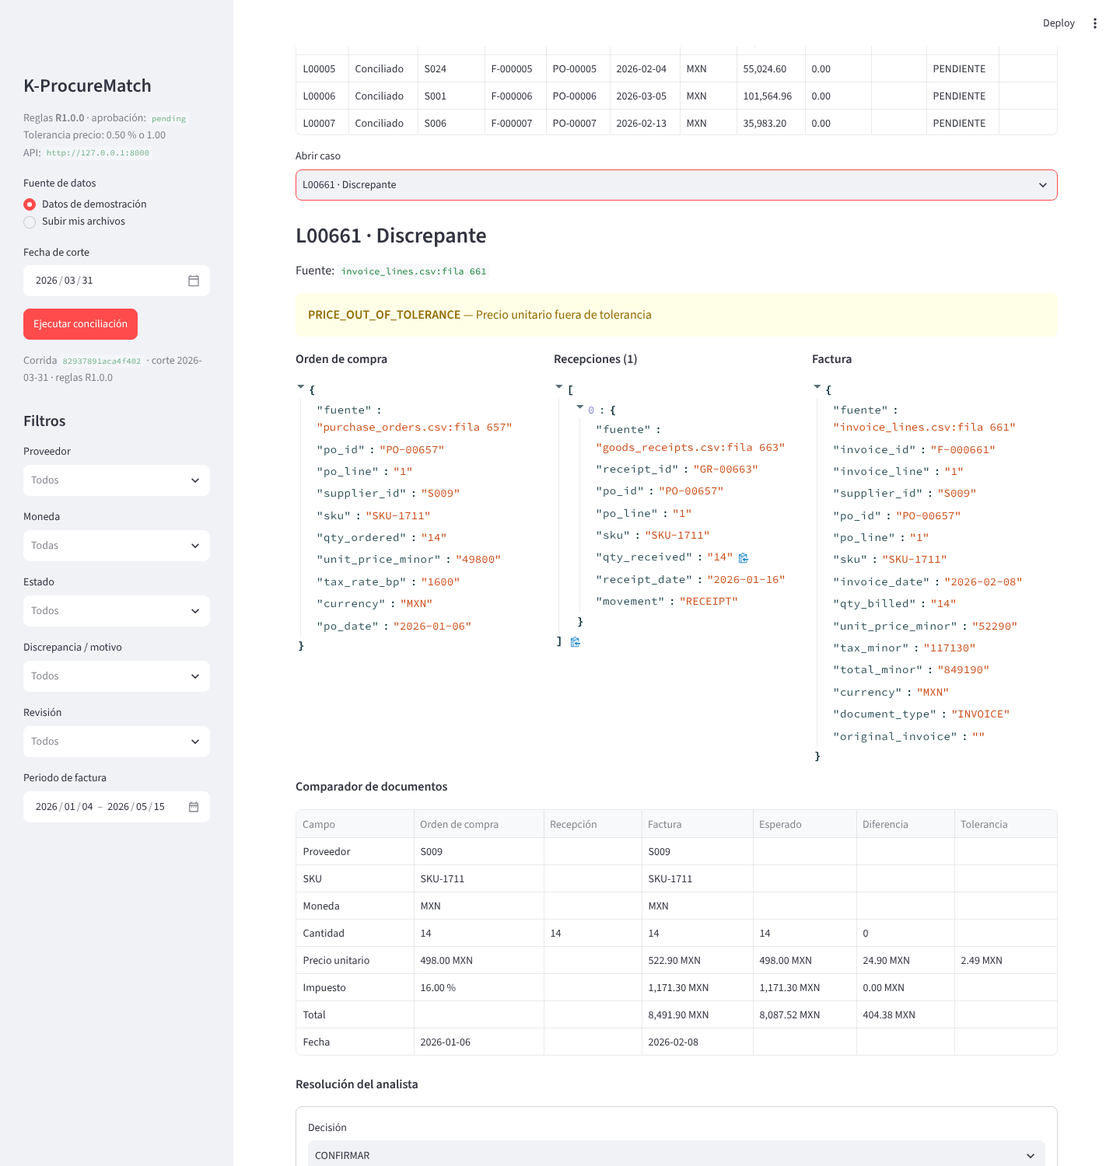
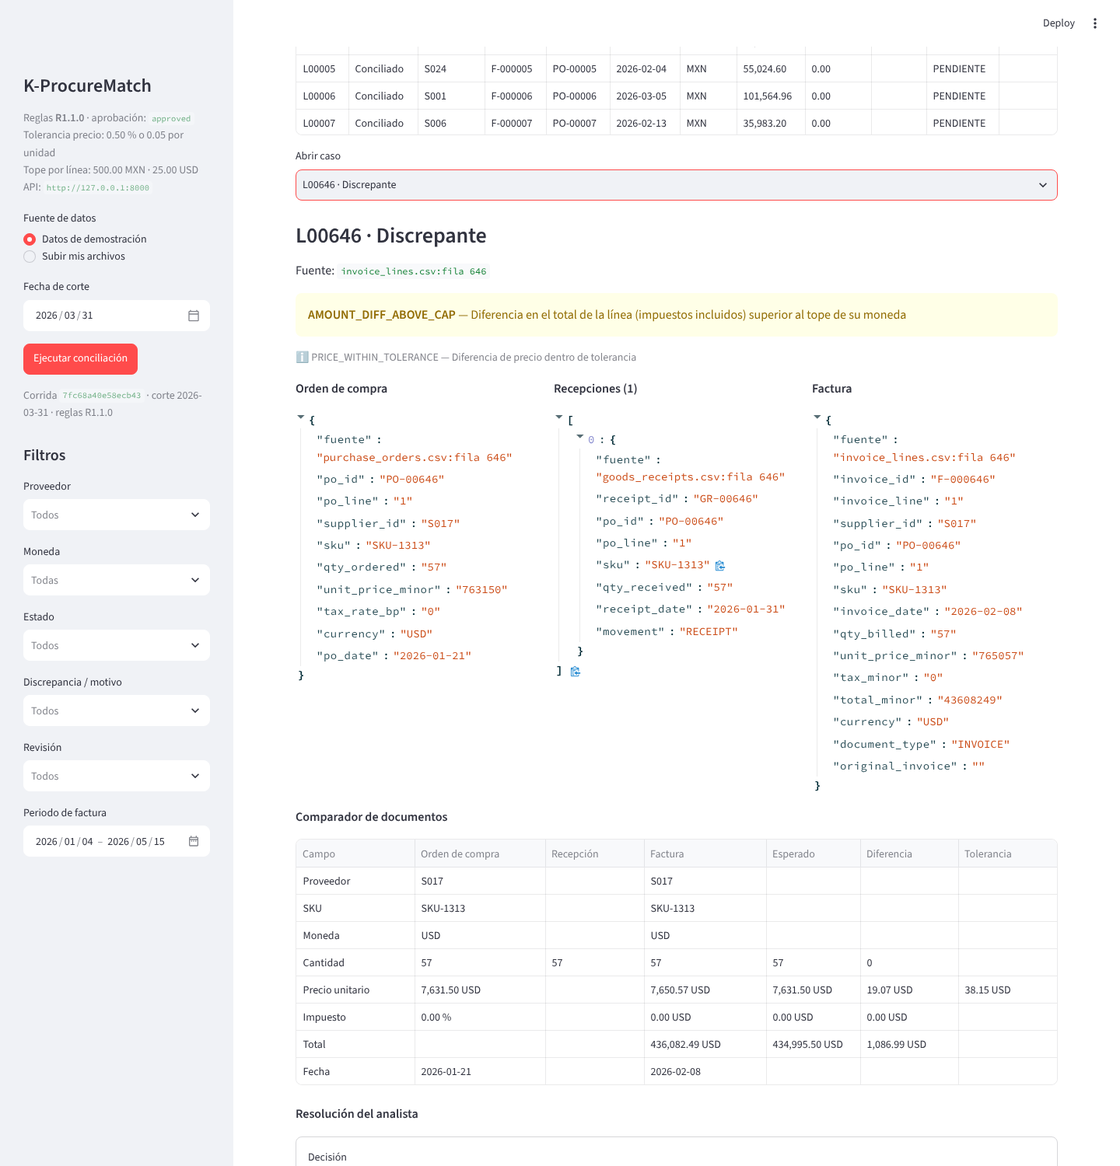
feat: reglas R1.1.0 aprobadas — mínimo de tolerancia 0.05 por unidad y tope de diferencia por línea
- rules_v1.yaml R1.1.0: tolerancia de precio 0.5 % o 0.05 por unidad (antes 1.00); tope de diferencia
  por línea de 500 MXN / 25 USD, impuestos incluidos; aprobación registrada (2026-10-31).
- Motor SQL: regla AMOUNT_DIFF_ABOVE_CAP (EXCEPTION), solo para líneas que de otro modo se conciliarían;
  igual al tope sigue conciliada y una moneda sin tope listado no tiene tope.
- API /rules, dashboard y expediente muestran el tope y quién aprobó las reglas y cuándo.
- Conjunto de demostración: la fila 646 (precio dentro de tolerancia, 1,086.99 USD de diferencia) pasa a
  EXCEPTION por el tope; las fuentes no cambian.
- Pruebas de frontera: mínimo de 0.05, tope en el límite y un centavo arriba, tope con IVA incluido.
- Indicadores: exactitud 100 %, 0 falsas coincidencias, esfuerzo de revisión 12.0 %. Motor 1.2.0.

diff --git a/tests/test_acceptance.py b/tests/test_acceptance.py
@@ -42,20 +42,59 @@ def test_T_I19_01_partial_receipts_and_billing_still_match(make_case):
 
 # ---------------------------------------------------------------- T-I19-02 · AC-I19-02 (diferencia monetaria)
 def test_T_I19_02_price_out_of_tolerance_is_EXCEPTION_with_auditable_amounts(make_case):
-    res = make_case(invs=[invoice(unit_price_minor=10500)])   # +5 %; tolerancia max(100, 0.5 %·10000=50) = 100
+    res = make_case(invs=[invoice(unit_price_minor=10500)])   # +5 %; tolerancia max(5, 0.5 %·10000=50) = 50
     c = case(res)
     assert c["status"] == "EXCEPTION" and c["reasons"] == "PRICE_OUT_OF_TOLERANCE"
-    assert c["price_diff_minor"] == 500 and c["price_tolerance_minor"] == 100
+    assert c["price_diff_minor"] == 500 and c["price_tolerance_minor"] == 50
     assert c["amount_expected_minor"] == 116000 and c["total_minor"] == 121800 and c["amount_diff_minor"] == 5800
-    assert res.manifest()["rules"]["version"] == "R1.0.0"
+    rules = res.manifest()["rules"]
+    assert rules["version"] == "R1.1.0" and rules["approval_status"] == "approved" and rules["approved_on"]
 
 
-@pytest.mark.parametrize("delta,status", [(100, "MATCH"), (101, "EXCEPTION"), (-100, "MATCH"), (-101, "EXCEPTION")])
+@pytest.mark.parametrize("delta,status", [(50, "MATCH"), (51, "EXCEPTION"), (-50, "MATCH"), (-51, "EXCEPTION")])
 def test_T_I19_02_tolerance_boundary(make_case, delta, status):
-    c = case(make_case(invs=[invoice(unit_price_minor=10000 + delta)]))
+    c = case(make_case(invs=[invoice(unit_price_minor=10000 + delta)]))   # 0.5 % de 100.00 = 0.50 por unidad
     assert c["status"] == status
     if status == "MATCH":
         assert c["notes"] == "PRICE_WITHIN_TOLERANCE"
+
+
+@pytest.mark.parametrize("delta,status", [(5, "MATCH"), (6, "EXCEPTION"), (-5, "MATCH"), (-6, "EXCEPTION")])
+def test_T_I19_02_minimum_tolerance_boundary_on_cheap_items(make_case, delta, status):
+    # Precio 5.00: el 0.5 % daría 0.02; rige el mínimo de 0.05 por unidad (antes 1.00 = 20 % del precio)
+    c = case(make_case(pos=[{**PO, "unit_price_minor": "500"}], invs=[invoice(unit_price_minor=500 + delta)]))
+    assert c["price_tolerance_minor"] == 5 and c["status"] == status
+
+
+USD_PO = {**PO, "currency": "USD", "tax_rate_bp": "0", "qty_ordered": "1", "unit_price_minor": "1000000"}
+ONE_RECEIPT = {**GR, "qty_received": "1"}
+
+
+def usd_invoice(unit: int) -> dict:
+    return invoice(qty_billed=1, unit_price_minor=unit, tax_minor=0, total_minor=unit, currency="USD")
+
+
+@pytest.mark.parametrize("delta,status", [(2500, "MATCH"), (2501, "EXCEPTION"), (-2500, "MATCH"), (-2501, "EXCEPTION")])
+def test_T_I19_02_line_cap_boundary(make_case, delta, status):
+    # Precio dentro de tolerancia (0.5 % de 10,000.00 = 50.00) pero la línea no puede aceptar más de 25.00 USD
+    c = case(make_case(pos=[USD_PO], grs=[ONE_RECEIPT], invs=[usd_invoice(1_000_000 + delta)]))
+    assert c["status"] == status and c["amount_diff_minor"] == delta
+    assert c["reasons"] == ("" if status == "MATCH" else "AMOUNT_DIFF_ABOVE_CAP")
+    assert c["notes"] == "PRICE_WITHIN_TOLERANCE"
+
+
+@pytest.mark.parametrize("delta,diff,status", [(43_103, 49_999, "MATCH"), (43_104, 50_001, "EXCEPTION")])
+def test_T_I19_02_line_cap_includes_tax(make_case, delta, diff, status):
+    # Subtotal +431.04 MXN, bajo el tope; con IVA la diferencia del total es 500.01 y lo supera
+    po = {**PO, "qty_ordered": "1", "unit_price_minor": "10000000"}
+    c = case(make_case(pos=[po], grs=[ONE_RECEIPT], invs=[invoice(qty_billed=1, unit_price_minor=10_000_000 + delta)]))
+    assert c["amount_diff_minor"] == diff and c["status"] == status
+
+
+def test_T_I19_02_line_cap_only_on_lines_that_would_match(make_case):
+    # Precio fuera de tolerancia con diferencia muy superior al tope: un solo motivo, el de precio
+    c = case(make_case(pos=[USD_PO], grs=[ONE_RECEIPT], invs=[usd_invoice(1_200_000)]))
+    assert c["status"] == "EXCEPTION" and c["reasons"] == "PRICE_OUT_OF_TOLERANCE"
 
 
 @pytest.mark.parametrize("kw,grs,reason", [
@@ -212,7 +251,7 @@ def test_T_I19_05_export_carries_decision_reasons_version_and_refs(sample_dir, s
     assert hit["decision"] == "REMITIR" and hit["analyst"] == "ana.cxp" and hit["review_state"] == "RESUELTO"
     assert rows["reasons"].notna().all() and rows["invoice_ref"].str.contains("fila").all()
     assert rows["po_ref"].notna().all() and rows["receipt_refs"].notna().all()
-    assert man["rules"]["version"] == "R1.0.0" and len(man["rules"]["sha256"]) == 64
+    assert man["rules"]["version"] == "R1.1.0" and len(man["rules"]["sha256"]) == 64
     import hashlib
     for f, meta in man["sources"].items():
         assert meta["sha256"] == hashlib.sha256((sample_dir / f).read_bytes()).hexdigest()

diff --git a/src/procurematch/engine.py b/src/procurematch/engine.py
@@ -35,6 +35,7 @@ REASONS: dict[str, Status] = {
     "INVOICE_BEFORE_PO": Status.EXCEPTION, "PRICE_OUT_OF_TOLERANCE": Status.EXCEPTION,
     "QTY_EXCEEDS_RECEIVED": Status.EXCEPTION, "QTY_EXCEEDS_ORDERED": Status.EXCEPTION,
     "TAX_MISMATCH": Status.EXCEPTION, "TOTAL_ARITHMETIC_MISMATCH": Status.EXCEPTION,
+    "AMOUNT_DIFF_ABOVE_CAP": Status.EXCEPTION,
 }
 NOTES = {"PRICE_WITHIN_TOLERANCE", "PARTIAL_RECEIPTS", "RETURN_APPLIED", "PARTIAL_BILLING"}
 PRECEDENCE = [Status.BLOCKED, Status.REVIEW, Status.UNMATCHED, Status.EXCEPTION, Status.MATCH]
@@ -62,6 +63,7 @@ REASON_TEXT = {
     "QTY_EXCEEDS_ORDERED": "Cantidad facturada supera lo ordenado pendiente",
     "TAX_MISMATCH": "Impuesto distinto al calculado con la tasa de la orden",
     "TOTAL_ARITHMETIC_MISMATCH": "Total distinto de subtotal + impuesto",
+    "AMOUNT_DIFF_ABOVE_CAP": "Diferencia en el total de la línea (impuestos incluidos) superior al tope de su moneda",
     "PRICE_WITHIN_TOLERANCE": "Diferencia de precio dentro de tolerancia",
     "PARTIAL_RECEIPTS": "Cantidad cubierta por varias recepciones",
     "RETURN_APPLIED": "Se descontaron devoluciones de la recepción",
@@ -116,7 +118,8 @@ class RunResult:
     def manifest(self) -> dict:
         return {"run_id": self.run_id, "as_of": self.as_of.isoformat(), "engine_version": __version__,
                 "rules": {"version": self.rules.version, "sha256": self.rules.sha256, "file": self.rules.path,
-                          "approval_status": self.rules.approval_status, "approved_by": self.rules.approved_by},
+                          "approval_status": self.rules.approval_status, "approved_by": self.rules.approved_by,
+                          "approved_on": self.rules.approved_on},
                 "sources": self.ingested.sources(),
                 "authority": {"payments_executed": False, "erp_postings": False, "purchase_orders_created": False}}
 
@@ -153,6 +156,7 @@ TABLE_DDL = {
     "issues": {"file": "VARCHAR", "row_no": "BIGINT", "field": "VARCHAR", "code": "VARCHAR", "value": "VARCHAR"},
     "suppliers": {"supplier_id": "VARCHAR"},
     "admitted": {"code": "VARCHAR"},
+    "line_cap": {"currency": "VARCHAR", "cap_minor": "BIGINT"},
     "reason_map": {"code": "VARCHAR", "status": "VARCHAR", "rank": "INTEGER"},
     "status_labels": {"status": "VARCHAR", "label": "VARCHAR"},
 }
@@ -176,6 +180,7 @@ def _frames(ing: Ingested, rules: RuleSet) -> dict[str, pd.DataFrame]:
         "issues": ing.issues,
         "suppliers": models("suppliers") if "suppliers" in t else pd.DataFrame(),
         "admitted": pd.DataFrame({"code": list(rules.currencies)}),
+        "line_cap": pd.DataFrame(list(rules.line_amount_cap_minor), columns=["currency", "cap_minor"]),
         "reason_map": pd.DataFrame([{"code": c, "status": s.value, "rank": rank[s]} for c, s in REASONS.items()]),
         "status_labels": pd.DataFrame([{"status": s.value, "label": lbl} for s, lbl in STATUS_LABEL.items()]),
     }

diff --git a/tests/test_api_and_metrics.py b/tests/test_api_and_metrics.py
@@ -60,7 +60,7 @@ def test_rules_version_and_hash_change_the_run_id(tmp_path, sample_dir):
     from procurematch.engine import run
     rules = (load_rules().path, (__import__("conftest").ROOT / "rules" / "rules_v1.yaml").read_text(encoding="utf-8"))
     alt = tmp_path / "rules_alt.yaml"
-    alt.write_text(rules[1].replace("unit_price_abs_minor: 100", "unit_price_abs_minor: 200"), encoding="utf-8")
+    alt.write_text(rules[1].replace("unit_price_abs_minor: 5 ", "unit_price_abs_minor: 200 "), encoding="utf-8")
     a = run(sample_dir, as_of=__import__("datetime").date(2026, 3, 31))
     b = run(sample_dir, as_of=__import__("datetime").date(2026, 3, 31), rules_path=alt)
     assert a.run_id != b.run_id and a.rules.sha256 != b.rules.sha256
@@ -68,6 +68,31 @@ def test_rules_version_and_hash_change_the_run_id(tmp_path, sample_dir):
     bad.write_text(rules[1].replace("qty_units: 0", "qty_units: -1"), encoding="utf-8")
     with pytest.raises(ValueError):
         load_rules(bad)
+
+
+def test_line_cap_is_optional_validated_and_exposed(tmp_path, sample_dir, sample_run, client):
+    from datetime import date
+
+    from procurematch.engine import run
+    text = (__import__("conftest").ROOT / "rules" / "rules_v1.yaml").read_text(encoding="utf-8")
+    no_cap = tmp_path / "rules_sin_tope.yaml"
+    no_cap.write_text("".join(ln for ln in text.splitlines(keepends=True)
+                              if not ln.startswith("  line_amount_cap_minor:")), encoding="utf-8")
+    r = load_rules(no_cap)
+    assert r.line_amount_cap_minor == () and r.line_cap("USD") is None
+    # sin tope, el mínimo de 0.05 deja el conjunto oficial como con R1.0.0; el tope solo detiene la fila 646
+    free = run(sample_dir, as_of=date(2026, 3, 31), rules_path=no_cap).cases.set_index("row_no")["status"]
+    capped = sample_run.cases.set_index("row_no")["status"]
+    assert (free == "MATCH").sum() == 660 and list(free.index[free != capped]) == [646]
+    assert sample_run.cases.set_index("row_no").loc[646, "reasons"] == "AMOUNT_DIFF_ABOVE_CAP"
+    for bad_cap in ("{MXN: 50000, EUR: 2500}", "{MXN: -1, USD: 2500}", "{MXN: 50000, USD: 25.5}"):
+        bad = tmp_path / "rules_tope_malo.yaml"
+        bad.write_text(text.replace("{MXN: 50000, USD: 2500}", bad_cap), encoding="utf-8")
+        with pytest.raises(ValueError):
+            load_rules(bad)
+    api = client.get("/rules").json()
+    assert api["tolerancias"]["tope_linea_minor"] == {"MXN": 50000, "USD": 2500}
+    assert api["aprobacion"] == {"estado": "approved", "aprobado_por": "jesusrlgonzalez", "aprobado_el": "2026-10-31"}
 
 
 def test_metrics_vs_labels_and_baseline(sample_run, sample_dir):

diff --git a/src/procurematch/rules.py b/src/procurematch/rules.py
@@ -24,9 +24,18 @@ class RuleSet:
     approval_status: str
     approved_by: str | None
     path: str
+    line_amount_cap_minor: tuple[tuple[str, int], ...] = ()   # (moneda, tope); vacío = sin tope
+    approved_on: str | None = None
 
     def price_tolerance(self, po_unit_minor: int) -> int:
         return max(self.unit_price_abs_minor, po_unit_minor * self.unit_price_bp // 10_000)
+
+    def line_cap(self, currency: str) -> int | None:
+        return dict(self.line_amount_cap_minor).get(currency)
+
+
+def _non_negative_int(v) -> bool:
+    return isinstance(v, int) and not isinstance(v, bool) and v >= 0
 
 
 def load_rules(path: str | Path = DEFAULT_RULES) -> RuleSet:
@@ -35,8 +44,11 @@ def load_rules(path: str | Path = DEFAULT_RULES) -> RuleSet:
     cfg = yaml.safe_load(raw)
     tol, dates, appr = cfg["tolerances"], cfg["dates"], cfg.get("approval") or {}
     for k in ("qty_units", "unit_price_bp", "unit_price_abs_minor", "tax_abs_minor", "total_abs_minor"):
-        if not isinstance(tol[k], int) or tol[k] < 0:
+        if not _non_negative_int(tol[k]):
             raise ValueError(f"tolerancia inválida: {k}")
+    caps = tol.get("line_amount_cap_minor") or {}
+    if not isinstance(caps, dict) or any(c not in cfg["currencies"] or not _non_negative_int(v) for c, v in caps.items()):
+        raise ValueError("tope por línea inválido: solo monedas admitidas y enteros no negativos")
     return RuleSet(
         version=str(cfg["version"]), sha256=hashlib.sha256(raw).hexdigest(),
         currencies=tuple(cfg["currencies"]),
@@ -44,5 +56,6 @@ def load_rules(path: str | Path = DEFAULT_RULES) -> RuleSet:
         unit_price_abs_minor=tol["unit_price_abs_minor"], tax_abs_minor=tol["tax_abs_minor"],
         total_abs_minor=tol["total_abs_minor"], future_days_allowed=int(dates["future_days_allowed"]),
         approval_status=str(appr.get("status", "pending")), approved_by=appr.get("approved_by"),
-        path=p.name,
+        path=p.name, line_amount_cap_minor=tuple(sorted(caps.items())),
+        approved_on=None if appr.get("approved_on") is None else str(appr["approved_on"]),
     )

diff --git a/src/procurematch/fixture.py b/src/procurematch/fixture.py
@@ -149,6 +149,9 @@ def build(out: str | Path, *, seed: int = 1905, clean_mxn: int = 520, clean_usd:
             unit = p["unit_price_minor"]
             if scenario == "PRICE_WITHIN_TOLERANCE":
                 reprice(i, unit + rules_tolerance(unit) // 2)
+                over = int(i["total_minor"]) - (q * unit + _tax(q * unit, p["tax_rate_bp"]))
+                if over > LINE_CAP_MINOR[p["currency"]]:   # precio dentro de tolerancia, total sobre el tope
+                    truth[-1].update(scenario="PRICE_WITHIN_TOLERANCE_ABOVE_CAP", expected_status="EXCEPTION")
             elif scenario == "PRICE_OUT_OF_TOLERANCE":
                 bump = max(unit * 5 // 100, 500)
                 reprice(i, unit + bump)
@@ -201,8 +204,11 @@ def build(out: str | Path, *, seed: int = 1905, clean_mxn: int = 520, clean_usd:
 
 
 def rules_tolerance(unit: int) -> int:
-    """Tolerancia de precio de las reglas R1 (0.5 % o 100), replicada para fabricar casos límite."""
-    return max(100, unit * 50 // 10_000)
+    """Tolerancia de precio de las reglas R1.1.0 (0.5 % o 5), replicada para fabricar casos límite."""
+    return max(5, unit * 50 // 10_000)
+
+
+LINE_CAP_MINOR = {"MXN": 50_000, "USD": 2_500}   # tope por línea de R1.1.0, replicado solo para etiquetar
 
 
 if __name__ == "__main__":

diff --git a/src/procurematch/service.py b/src/procurematch/service.py
@@ -112,11 +112,13 @@ class Service:
     def rules(self) -> dict:
         r = load_rules(self.rules_path)
         return {"version": r.version, "sha256": r.sha256, "archivo": r.path,
-                "aprobacion": {"estado": r.approval_status, "aprobado_por": r.approved_by},
+                "aprobacion": {"estado": r.approval_status, "aprobado_por": r.approved_by,
+                               "aprobado_el": r.approved_on},
                 "monedas": list(r.currencies),
                 "tolerancias": {"cantidad_unidades": r.qty_units, "precio_bp": r.unit_price_bp,
                                 "precio_abs_minor": r.unit_price_abs_minor, "impuesto_abs_minor": r.tax_abs_minor,
-                                "total_abs_minor": r.total_abs_minor},
+                                "total_abs_minor": r.total_abs_minor,
+                                "tope_linea_minor": dict(r.line_amount_cap_minor)},
                 "dias_futuros_permitidos": r.future_days_allowed}
 
     # ------------------------------------------------------------ consultas

diff --git a/dashboard/app.py b/dashboard/app.py
@@ -79,8 +79,10 @@ except ApiError as e:
 # ---------------------------------------------------------------- fuente y corrida
 st.sidebar.title("K-ProcureMatch")
 tol = rules["tolerancias"]
+cap_txt = " · ".join(f"{v / 100:,.2f} {k}" for k, v in (tol.get("tope_linea_minor") or {}).items()) or "sin tope"
 st.sidebar.caption(f"Reglas **{rules['version']}** · aprobación: `{rules['aprobacion']['estado']}`  \n"
-                   f"Tolerancia precio: {tol['precio_bp'] / 100:.2f} % o {tol['precio_abs_minor'] / 100:.2f}  \n"
+                   f"Tolerancia precio: {tol['precio_bp'] / 100:.2f} % o {tol['precio_abs_minor'] / 100:.2f} por unidad  \n"
+                   f"Tope por línea: {cap_txt}  \n"
                    f"API: `{API_URL}`")
 mode = st.sidebar.radio("Fuente de datos", ["Datos de demostración", "Subir mis archivos"], key="mode")
 

diff --git a/src/procurematch/export.py b/src/procurematch/export.py
@@ -88,7 +88,7 @@ code{{font-size:10px}}@media print{{body{{margin:0}}}}</style></head><body>
 <h1>Expediente de conciliación 3-way</h1>
 <p><b>Corrida:</b> {e(manifest['run_id'])} · <b>Fecha de corte:</b> {e(manifest['as_of'])} ·
 <b>Motor:</b> {e(manifest['engine_version'])} · <b>Reglas:</b> {e(rules['version'])} (<code>{rules['sha256']}</code>,
-aprobación: {e(str(rules['approval_status']))})</p>
+aprobación: {e(' · '.join(str(rules[k]) for k in ('approval_status', 'approved_by', 'approved_on') if rules.get(k)))})</p>
 <p><b>Filtros aplicados:</b> {e(json.dumps(filters or {}, ensure_ascii=False))}</p>
 <p><b>Alcance de autoridad:</b> este expediente es soporte para revisión. No ejecuta pagos, asientos contables
 ni órdenes en ERP.</p>

diff --git a/tests/test_dashboard_api.py b/tests/test_dashboard_api.py
@@ -111,6 +111,6 @@ def test_client_pagination_and_filters_match_summary(client):
         assert s["lineas"] == len(cases) == sum(s["por_estado"].values())
     fac = client.facets(rid)
     assert fac["monedas"][:3] == ["EUR", "MXN", "USD"] and fac["facturas_sin_fecha_valida"] == 4
-    assert client.manifest(rid)["rules"]["version"] == client.rules()["version"] == "R1.0.0"
+    assert client.manifest(rid)["rules"]["version"] == client.rules()["version"] == "R1.1.0"
     z = zipfile.ZipFile(io.BytesIO(client.export(rid, Filters(currencies=["USD"]))))
     assert any(n.endswith("manifest.json") for n in z.namelist())

diff --git a/src/procurematch/__init__.py b/src/procurematch/__init__.py
@@ -1,3 +1,3 @@
 """K-ProcureMatch: conciliación determinista 3-way de órdenes de compra, recepciones y facturas."""
 
-__version__ = "1.1.0"
+__version__ = "1.2.0"

diff --git a/README.md b/README.md
@@ -10,7 +10,7 @@ En cuentas por pagar, una factura solo debería avanzar si coincide con lo que s
 ## Qué hace
 1. **Importa** las tres fuentes (o usa el conjunto de demostración) y muestra su cobertura, sus periodos y los registros inválidos.
 2. **Valida** identificadores, tipos, monedas, fechas y duplicados. Las filas inválidas se señalan por archivo y fila, nunca se borran en silencio.
-3. **Concilia** con reglas deterministas versionadas y tolerancias configurables. Contempla recepciones parciales, devoluciones, facturación parcial y varias monedas.
+3. **Concilia** con reglas deterministas versionadas: tolerancia de precio por unidad y un tope de diferencia por línea que envía al analista las diferencias grandes aunque el precio esté dentro de tolerancia. Contempla recepciones parciales, devoluciones, facturación parcial y varias monedas.
 4. **Clasifica** cada línea en un embudo de categorías disjuntas: recibidos → aptos → vinculados → conciliados, con discrepantes, en revisión, sin vínculo y bloqueados aparte.
 5. **Explica** cada caso: los tres documentos vinculados lado a lado, las diferencias de cantidad, precio, impuesto y total, el motivo de la clasificación y la fila exacta de cada fuente.
 6. **Registra** la decisión del analista y **exporta** el expediente (CSV, JSON y HTML imprimible) con el hash de cada archivo de entrada y la versión de reglas.
@@ -20,17 +20,19 @@ En cuentas por pagar, una factura solo debería avanzar si coincide con lo que s
 > **Frontera:** es soporte a la decisión del analista. No aprueba pagos, no registra asientos y no crea órdenes en ningún ERP.
 
 ## Resultados verificados
-Medidos sobre el conjunto sintético de demostración (749 líneas, MXN y USD, 27 escenarios etiquetados) con `python run.py evaluate`. CI vuelve a calcularlos en cada cambio.
+Medidos sobre el conjunto sintético de demostración (749 líneas, MXN y USD, 28 escenarios etiquetados) con `python run.py evaluate`. CI vuelve a calcularlos en cada cambio.
 
-| Indicador | K-ProcureMatch (reglas R1.0.0) | Motor de reglas anterior (v0) | Cotejo manual |
+| Indicador | K-ProcureMatch (reglas R1.1.0) | Motor de reglas anterior (v0) | Cotejo manual |
 |---|---|---|---|
 | Falsas coincidencias (factura aprobada que no debía) | **0** | 4 | — |
-| Exactitud de clasificación (5 estados) | **100 %** | 81.8 % (solo MATCH / no MATCH) | — |
-| Coincidencias correctas enviadas a revisión innecesaria | **0** | 132 | — |
-| Esfuerzo de revisión (líneas que exigen analista) | **11.9 %** | 29.0 % | 100 % |
+| Exactitud de clasificación (5 estados) | **100 %** | 82.0 % (solo MATCH / no MATCH) | — |
+| Coincidencias correctas enviadas a revisión innecesaria | **0** | 131 | — |
+| Esfuerzo de revisión (líneas que exigen analista) | **12.0 %** | 29.0 % | 100 % |
 | Diferencias monetarias inyectadas detectadas al centavo | **24 / 24** (MXN y USD por separado) | — | — |
 
 El motor v0 aprobaba facturas con fecha futura o ligadas a órdenes inválidas, y enviaba a revisión todas las líneas en USD, las diferencias dentro de tolerancia y la facturación parcial. **Estos resultados son de datos sintéticos** y no constituyen un ahorro medido en una operación real.
+
+**Tolerancias calibradas, no supuestas.** Las de R1.1.0 son 0.5 % del precio o 0.05 por unidad, y un tope de 500 MXN / 25 USD por línea, impuestos incluidos. Se eligieron con un análisis de sensibilidad del motor sobre datos sintéticos: el mínimo anterior de 1.00 dejaba pasar sobrecargos en artículos baratos, y el tope detiene las diferencias grandes que una tolerancia porcentual acepta en líneas de mucho volumen. El porcentaje y el tope se recalibran con los datos reales del piloto.
 
 **¿Por qué sin Machine Learning?** Las reglas deterministas ya logran cero falsas coincidencias en este conjunto y cada decisión es explicable. Un modelo solo se consideraría con datos reales y si redujera el esfuerzo de revisión sin aumentar las falsas coincidencias.
 
@@ -93,7 +95,7 @@ Los filtros (`supplier`, `currency`, `status`, `reason`, `review_state`, `date_f
 - El motor v0 original se conserva en `src/i19/` como línea base de comparación.
 
 ## Estado y siguiente paso
-Sistema funcional y verificado con datos sintéticos. Las tolerancias de `rules_v1.yaml` son una **propuesta pendiente de aprobación** por el responsable de cuentas por pagar. El expediente se exporta en CSV, JSON y HTML imprimible; el PDF nativo se incorporaría si se contrata ese formato.
+Sistema funcional y verificado con datos sintéticos. Las tolerancias R1.1.0 de `rules_v1.yaml` están **aprobadas** (2026-10-31) y el expediente registra quién las aprobó y cuándo. El expediente se exporta en CSV, JSON y HTML imprimible; el PDF nativo se incorporaría si se contrata ese formato.
 
 El siguiente paso es un **piloto con datos reales** de su área de compras, bajo acuerdo de uso y confidencialidad, para medir las falsas coincidencias y el esfuerzo de revisión frente a su proceso actual.
 

diff --git a/docs/reglas.md b/docs/reglas.md
@@ -1,4 +1,4 @@
-# Catálogo de reglas (R1.0.0)
+# Catálogo de reglas (R1.1.0)
 
 Cada línea de factura recibe **un único estado**. Si se activan varios motivos, gana el de mayor precedencia: `BLOCKED` > `REVIEW` > `UNMATCHED` > `EXCEPTION` > `MATCH`.
 
@@ -40,6 +40,7 @@ Las reglas están implementadas en SQL en [`src/procurematch/sql/reconcile.sql`]
 | `QTY_EXCEEDS_ORDERED` | `EXCEPTION` | Cantidad facturada supera lo ordenado pendiente |
 | `TAX_MISMATCH` | `EXCEPTION` | Impuesto distinto al calculado con la tasa de la orden |
 | `TOTAL_ARITHMETIC_MISMATCH` | `EXCEPTION` | Total distinto de subtotal + impuesto |
+| `AMOUNT_DIFF_ABOVE_CAP` | `EXCEPTION` | Diferencia en el total de la línea (impuestos incluidos) superior al tope de su moneda |
 | `<campo>:<código>` | `BLOCKED` | Error de formato en la fila: `MISSING_KEY`, `INVALID_ID_FORMAT`, `INVALID_NUMBER`, `NEGATIVE_NOT_ALLOWED`, `INVALID_DATE`, `INVALID_CURRENCY`, `INVALID_DOCUMENT_TYPE` |
 
 ## Notas informativas (no cambian el estado)
@@ -53,7 +54,8 @@ Las reglas están implementadas en SQL en [`src/procurematch/sql/reconcile.sql`]
 
 ## Cálculos
 
-- **Tolerancia de precio:** `max(unit_price_abs_minor, precio_OC × unit_price_bp / 10 000)`.
+- **Tolerancia de precio:** `max(unit_price_abs_minor, precio_OC × unit_price_bp / 10 000)`, truncada al centavo. En R1.1.0: 0.5 % del precio de la orden o 0.05 por unidad, el mayor.
+- **Tope por línea:** una línea que de otro modo se conciliaría pasa a `EXCEPTION` (`AMOUNT_DIFF_ABOVE_CAP`) si `|total facturado − importe respaldado|` supera el tope de su moneda (`line_amount_cap_minor`; en R1.1.0, 500.00 MXN y 25.00 USD). Igual al tope sigue conciliada. No se aplica a líneas que ya tienen otro motivo, y una moneda sin tope listado no tiene tope.
 - **Impuesto esperado:** `cantidad × precio_factura × tasa_OC`, redondeado al centavo (half-up).
 - **Cantidad facturable:** recibido neto (recepciones − devoluciones, con fecha ≤ corte) − lo ya facturado antes en esa línea de orden, en orden cronológico. Un duplicado no consume cantidad.
 - **Importe respaldado:** `min(cantidad facturada, facturable) × precio_OC`, más su impuesto.
